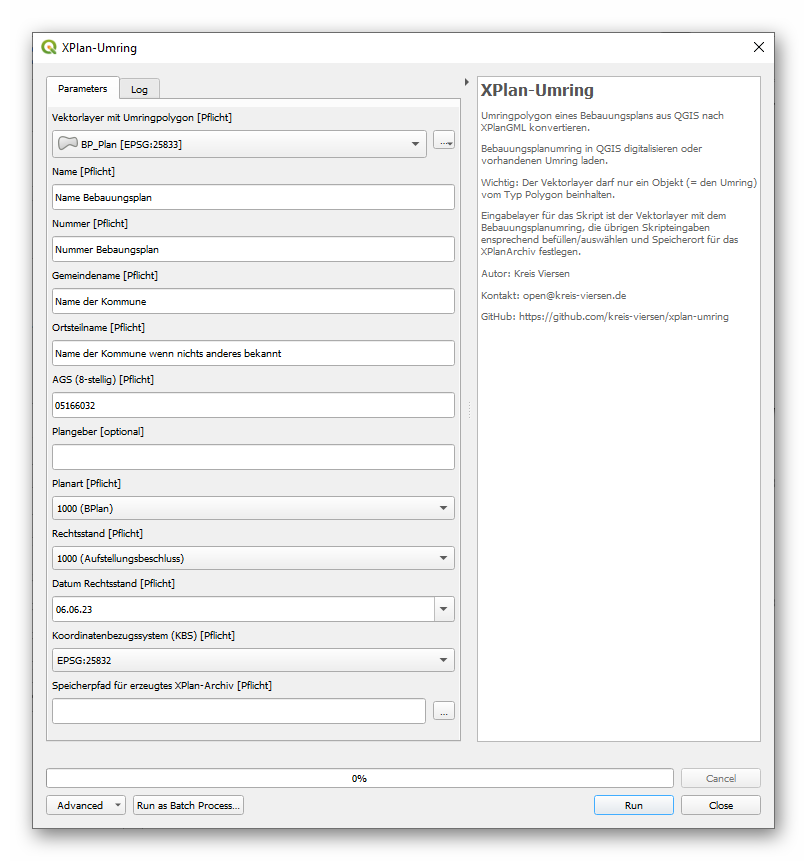
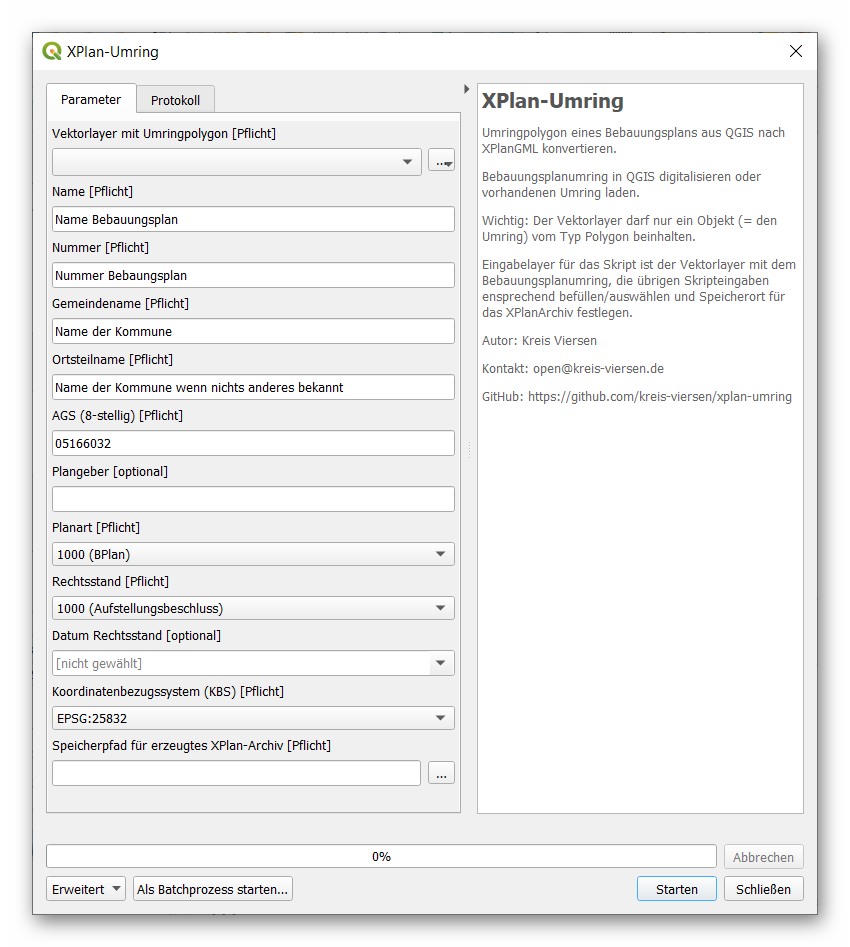
Add Rechtsstand 2000 (Entwurf)

Changed region(s): [[0.031, 0.0302, 0.9603, 0.9663], [0.4957, 0.7549, 0.5886, 0.7851]]

diff --git a/xplan_umring_algorithm.py b/xplan_umring_algorithm.py
@@ -169,6 +169,7 @@ class XPlanUmringAlgorithm(QgsProcessingAlgorithm):
                 "Rechtsstand [Pflicht]",
                 options=[
                     "1000 (Aufstellungsbeschluss)",
+                    "2000 (Entwurf)",
                     "3000 (Satzung)",
                     "4000 (InkraftGetreten)",
                 ],
@@ -180,9 +181,9 @@ class XPlanUmringAlgorithm(QgsProcessingAlgorithm):
         )
         self.addParameter(
             QgsProcessingParameterDateTime(
-                "DatumAufstellungsbeschluss",
-                "Datum Rechtsstand [Pflicht]",
-                optional=False,
+                "DatumRechtsstand",
+                "Datum Rechtsstand",
+                optional=True,
                 type=QgsProcessingParameterDateTime.Date,
                 defaultValue=None,
             )
@@ -250,12 +251,12 @@ class XPlanUmringAlgorithm(QgsProcessingAlgorithm):
         planart_key = str(planart_keys[planart])
 
         rechtsstand = self.parameterAsInt(parameters, "Rechtsstand", context)
-        rechtsstand_keys = [1000, 3000, 4000]
+        rechtsstand_keys = [1000, 2000, 3000, 4000]
         rechtsstand_key = str(rechtsstand_keys[rechtsstand])
 
-        datum = self.parameterAsString(
-            parameters, "DatumAufstellungsbeschluss", context
-        ).strip()
+        datum = self.parameterAsString(parameters, "DatumRechtsstand", context).strip()
+        if datum == None:
+            datum = ""
 
         kbs = self.parameterAsString(parameters, "Koordinatenbezugssystem", context)
 
@@ -385,6 +386,7 @@ class XPlanUmringAlgorithm(QgsProcessingAlgorithm):
               </xplan:plangeber>
               <xplan:planArt>1000</xplan:planArt>
               <xplan:rechtsstand>1000</xplan:rechtsstand>
+              <xplan:aenderungenBisDatum></xplan:aenderungenBisDatum>
               <xplan:aufstellungsbeschlussDatum>2022-09-09</xplan:aufstellungsbeschlussDatum>
               <xplan:inkrafttretensDatum></xplan:inkrafttretensDatum>
               <xplan:satzungsbeschlussDatum></xplan:satzungsbeschlussDatum>
@@ -482,6 +484,11 @@ class XPlanUmringAlgorithm(QgsProcessingAlgorithm):
         for bp_plan_element in root.iter(
             "{http://www.xplanung.de/xplangml/5/4}BP_Plan"
         ):
+            aenderungenBisDatum_element = next(
+                bp_plan_element.iter(
+                    "{http://www.xplanung.de/xplangml/5/4}aenderungenBisDatum"
+                )
+            )
             aufstellungsbeschlussDatum_element = next(
                 bp_plan_element.iter(
                     "{http://www.xplanung.de/xplangml/5/4}aufstellungsbeschlussDatum"
@@ -499,14 +506,22 @@ class XPlanUmringAlgorithm(QgsProcessingAlgorithm):
             )
             if rechtsstand_key == "1000":
                 aufstellungsbeschlussDatum_element.text = datum
-                bp_plan_element.remove(satzungsbeschlussDatum_element)
+                bp_plan_element.remove(aenderungenBisDatum_element)
                 bp_plan_element.remove(inkrafttretensDatum_element)
+                bp_plan_element.remove(satzungsbeschlussDatum_element)
+            elif rechtsstand_key == "2000":
+                aenderungenBisDatum_element.text = datum
+                bp_plan_element.remove(aufstellungsbeschlussDatum_element)
+                bp_plan_element.remove(inkrafttretensDatum_element)
+                bp_plan_element.remove(satzungsbeschlussDatum_element)
             elif rechtsstand_key == "3000":
                 satzungsbeschlussDatum_element.text = datum
+                bp_plan_element.remove(aenderungenBisDatum_element)
                 bp_plan_element.remove(aufstellungsbeschlussDatum_element)
                 bp_plan_element.remove(inkrafttretensDatum_element)
             elif rechtsstand_key == "4000":
                 inkrafttretensDatum_element.text = datum
+                bp_plan_element.remove(aenderungenBisDatum_element)
                 bp_plan_element.remove(aufstellungsbeschlussDatum_element)
                 bp_plan_element.remove(satzungsbeschlussDatum_element)
 

diff --git a/README.md b/README.md
@@ -8,7 +8,7 @@ Bei Fragen, Anmerkungen, etc. erreichen Sie uns auch per E-Mail unter [open@krei
 Es wird **QGIS mindestens in der Version 3.24.0** benötigt.<br><br>
 Das Plugin ist im offiziellen [QGIS-Plugin-Repository] enthalten und kann in QGIS über das Hauptmenü (*Erweiterungen -> Erweiterungen verwalten und installieren*) installiert und auch bei Verfügbarkeit einer neuen Version aktualisiert werden.
 
-Nach der Installtion des Plugins steht das Werkzeug **XPlan-Umring** über die QGIS-Werkzeugkiste zur Verfügung:
+Nach der Installation des Plugins steht das Werkzeug **XPlan-Umring** über die QGIS-Werkzeugkiste zur Verfügung:
 
 <img src="./screenshots/werkzeugkiste.png"/>
 
@@ -21,7 +21,7 @@ Nach der Installtion des Plugins steht das Werkzeug **XPlan-Umring** über die Q
 
 ## Anmerkungen
 
-Bis auf das Feld _Plangeber_ sind alle Eingabefelder Pflicht. Hierbei handelt es sich **nicht** ausschließlich um Pflichtattribute gemäß der [XPlanung-Spezifikation]. Die Pflichtattribute ergeben sich auch durch die Verwendung der [XPlanBox] im [KRZN]-Gebiet. Die Attribute und Auswahlmöglichkeiten können sich zukunftig noch ändern, wir freuen uns über fachlichen Input :-)
+Bis auf die Felder _Plangeber_ und _Datum Rechtsstand_ sind alle Eingabefelder Pflicht. Hierbei handelt es sich **nicht** ausschließlich um Pflichtattribute gemäß der [XPlanung-Spezifikation]. Die Pflichtattribute ergeben sich auch durch die Verwendung der [XPlanBox] im [KRZN]-Gebiet. Die Attribute und Auswahlmöglichkeiten können sich zukunftig noch ändern, wir freuen uns über fachlichen Input :-)
 
 Aktuell stehen drei Rechtsstände zur Auswahl, wodurch auch bestimmt wird, mit welchem Attribut das Datum angelegt wird:
 - Aufstellungsbeschluss -> xplan:aufstellungsbeschlussDatum
